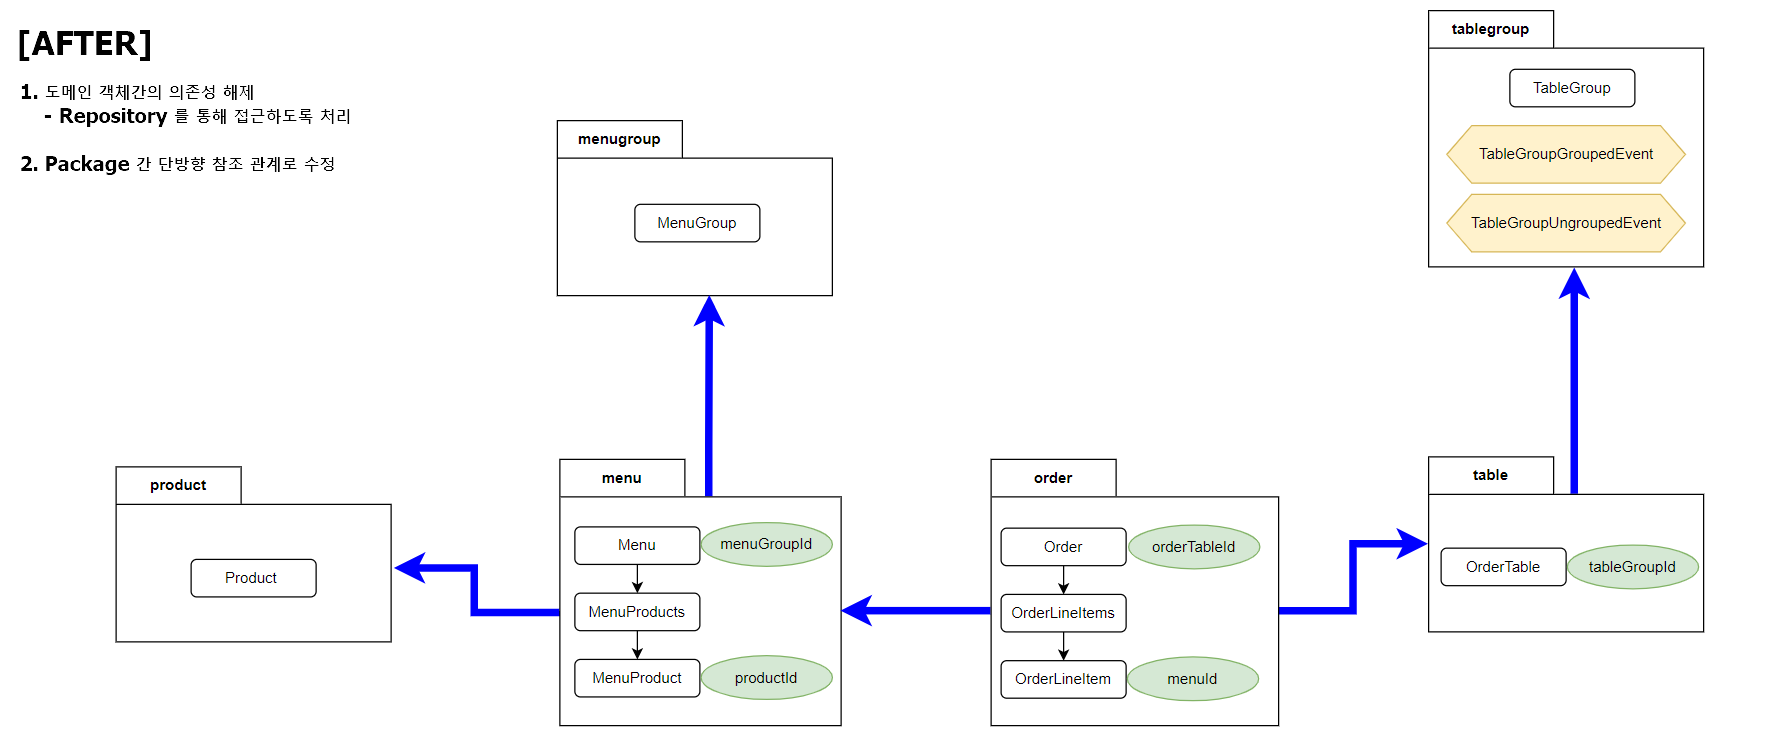
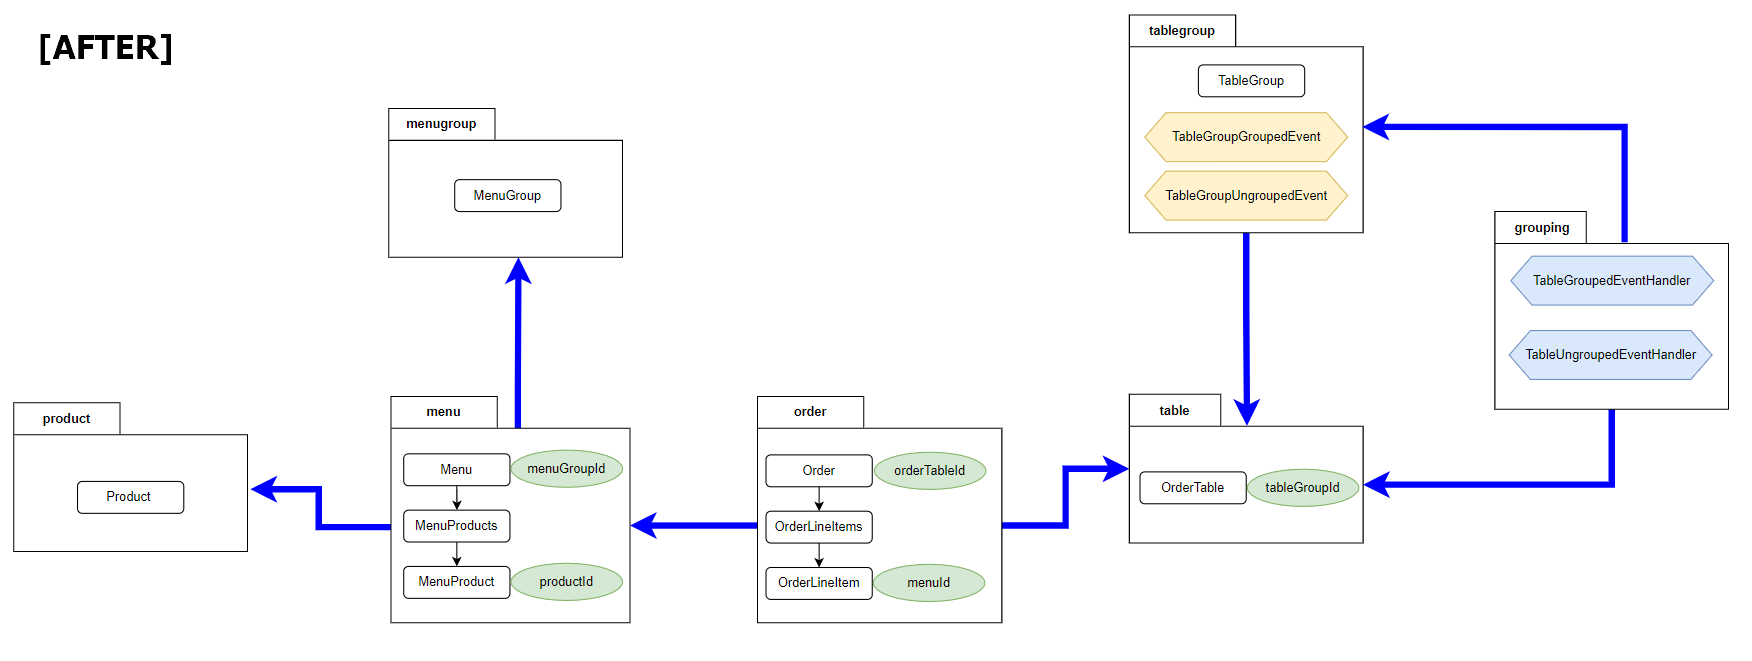
refactor(grouping package): grouping package 에 OrderTableGrouped/UngroupedEventHandler 이동하여 의존성 분리
grouping package 에 OrderTableGrouped/UngroupedEventHandler 이동하여 의존성을 분리한다.
- OrderTableGroupedEventHandler, OrderTableUngroupedEventHandler : grouping package 로 이동
- TableGroup, TableGroupGroupedEvent, TableGroupUngroupedEvent, TableGroupServiceTest : Event 파라미터를 TableGroup -> tableGroupId 로 변경
- after.png : After 이미지 수정

diff --git a/src/test/java/kitchenpos/application/TableGroupServiceTest.java b/src/test/java/kitchenpos/application/TableGroupServiceTest.java
@@ -41,9 +41,9 @@ import kitchenpos.domain.product.Product;
 import kitchenpos.domain.product.ProductRepository;
 import kitchenpos.domain.table.OrderTable;
 import kitchenpos.domain.table.OrderTableRepository;
-import kitchenpos.domain.tablegroup.event.TableGroupUngroupedEvent;
 import kitchenpos.domain.tablegroup.TableGroup;
 import kitchenpos.domain.tablegroup.TableGroupRepository;
+import kitchenpos.domain.tablegroup.event.TableGroupUngroupedEvent;
 import kitchenpos.dto.tablegroup.OrderTableIdRequest;
 import kitchenpos.dto.tablegroup.TableGroupRequest;
 import kitchenpos.dto.tablegroup.TableGroupResponse;
@@ -213,7 +213,7 @@ class TableGroupServiceTest {
         불고기_주문.changeOrderStatus(OrderStatus.COMPLETION);
 
         // when
-        publisher.publishEvent(new TableGroupUngroupedEvent(단체_테이블그룹));
+        publisher.publishEvent(new TableGroupUngroupedEvent(단체_테이블그룹.getId()));
 
         // then
         OrderTable 그룹해제된_주문1_단체테이블 = orderTableRepository.findById(주문1_단체테이블.getId()).get();

diff --git a/src/main/java/kitchenpos/application/grouping/OrderTableGroupedEventHandler.java b/src/main/java/kitchenpos/application/grouping/OrderTableGroupedEventHandler.java
@@ -1,4 +1,4 @@
-package kitchenpos.application.table;
+package kitchenpos.application.grouping;
 
 import java.util.List;
 
@@ -10,7 +10,6 @@ import org.springframework.transaction.annotation.Transactional;
 import kitchenpos.domain.table.OrderTable;
 import kitchenpos.domain.table.OrderTableRepository;
 import kitchenpos.domain.tablegroup.event.TableGroupGroupedEvent;
-import kitchenpos.domain.tablegroup.TableGroup;
 
 @Component
 public class OrderTableGroupedEventHandler {
@@ -25,9 +24,7 @@ public class OrderTableGroupedEventHandler {
     @EventListener
     @Transactional
     public void handle(TableGroupGroupedEvent event) {
-        TableGroup tableGroup = event.getTableGroup();
         List<OrderTable> orderTables = orderTableRepository.findAllByIdIn(event.getOrderTableIds());
-
-        orderTables.forEach(orderTable -> orderTable.alignTableGroup(tableGroup.getId()));
+        orderTables.forEach(orderTable -> orderTable.alignTableGroup(event.getTableGroupId()));
     }
 }

diff --git a/src/main/java/kitchenpos/application/grouping/OrderTableUngroupedEventHandler.java b/src/main/java/kitchenpos/application/grouping/OrderTableUngroupedEventHandler.java
@@ -1,4 +1,4 @@
-package kitchenpos.application.table;
+package kitchenpos.application.grouping;
 
 import java.util.List;
 
@@ -9,7 +9,6 @@ import org.springframework.transaction.annotation.Transactional;
 import kitchenpos.domain.table.OrderTable;
 import kitchenpos.domain.table.OrderTableRepository;
 import kitchenpos.domain.tablegroup.event.TableGroupUngroupedEvent;
-import kitchenpos.domain.tablegroup.TableGroup;
 
 @Component
 public class OrderTableUngroupedEventHandler {
@@ -23,9 +22,7 @@ public class OrderTableUngroupedEventHandler {
     @EventListener
     @Transactional
     public void handle(TableGroupUngroupedEvent event) {
-        TableGroup tableGroup = event.getTableGroup();
-        List<OrderTable> orderTables = orderTableRepository.findAllByTableGroupId(tableGroup.getId());
-
+        List<OrderTable> orderTables = orderTableRepository.findAllByTableGroupId(event.getTableGroupId());
         orderTables.forEach(OrderTable::ungroup);
     }
 }

diff --git a/src/main/java/kitchenpos/domain/tablegroup/event/TableGroupGroupedEvent.java b/src/main/java/kitchenpos/domain/tablegroup/event/TableGroupGroupedEvent.java
@@ -2,20 +2,18 @@ package kitchenpos.domain.tablegroup.event;
 
 import java.util.List;
 
-import kitchenpos.domain.tablegroup.TableGroup;
-
 public class TableGroupGroupedEvent {
 
-    private TableGroup tableGroup;
+    private Long tableGroupId;
     private List<Long> orderTableIds;
 
-    public TableGroupGroupedEvent(TableGroup tableGroup, List<Long> orderTableIds) {
-        this.tableGroup = tableGroup;
+    public TableGroupGroupedEvent(Long tableGroupId, List<Long> orderTableIds) {
+        this.tableGroupId = tableGroupId;
         this.orderTableIds = orderTableIds;
     }
 
-    public TableGroup getTableGroup() {
-        return tableGroup;
+    public Long getTableGroupId() {
+        return tableGroupId;
     }
 
     public List<Long> getOrderTableIds() {

diff --git a/src/main/java/kitchenpos/domain/tablegroup/event/TableGroupUngroupedEvent.java b/src/main/java/kitchenpos/domain/tablegroup/event/TableGroupUngroupedEvent.java
@@ -1,16 +1,14 @@
 package kitchenpos.domain.tablegroup.event;
 
-import kitchenpos.domain.tablegroup.TableGroup;
-
 public class TableGroupUngroupedEvent {
 
-    private TableGroup tableGroup;
+    private Long tableGroupId;
 
-    public TableGroupUngroupedEvent(TableGroup tableGroup) {
-        this.tableGroup = tableGroup;
+    public TableGroupUngroupedEvent(Long tableGroupId) {
+        this.tableGroupId = tableGroupId;
     }
 
-    public TableGroup getTableGroup() {
-        return tableGroup;
+    public Long getTableGroupId() {
+        return tableGroupId;
     }
 }

diff --git a/src/main/java/kitchenpos/domain/tablegroup/TableGroup.java b/src/main/java/kitchenpos/domain/tablegroup/TableGroup.java
@@ -45,11 +45,11 @@ public class TableGroup extends AbstractAggregateRoot<TableGroup> {
     }
 
     public void group(List<Long> orderTableIds) {
-        registerEvent(new TableGroupGroupedEvent(this, orderTableIds));
+        registerEvent(new TableGroupGroupedEvent(id, orderTableIds));
     }
 
     public void ungroup() {
-        registerEvent(new TableGroupUngroupedEvent(this));
+        registerEvent(new TableGroupUngroupedEvent(id));
     }
 
     public Long getId() {
